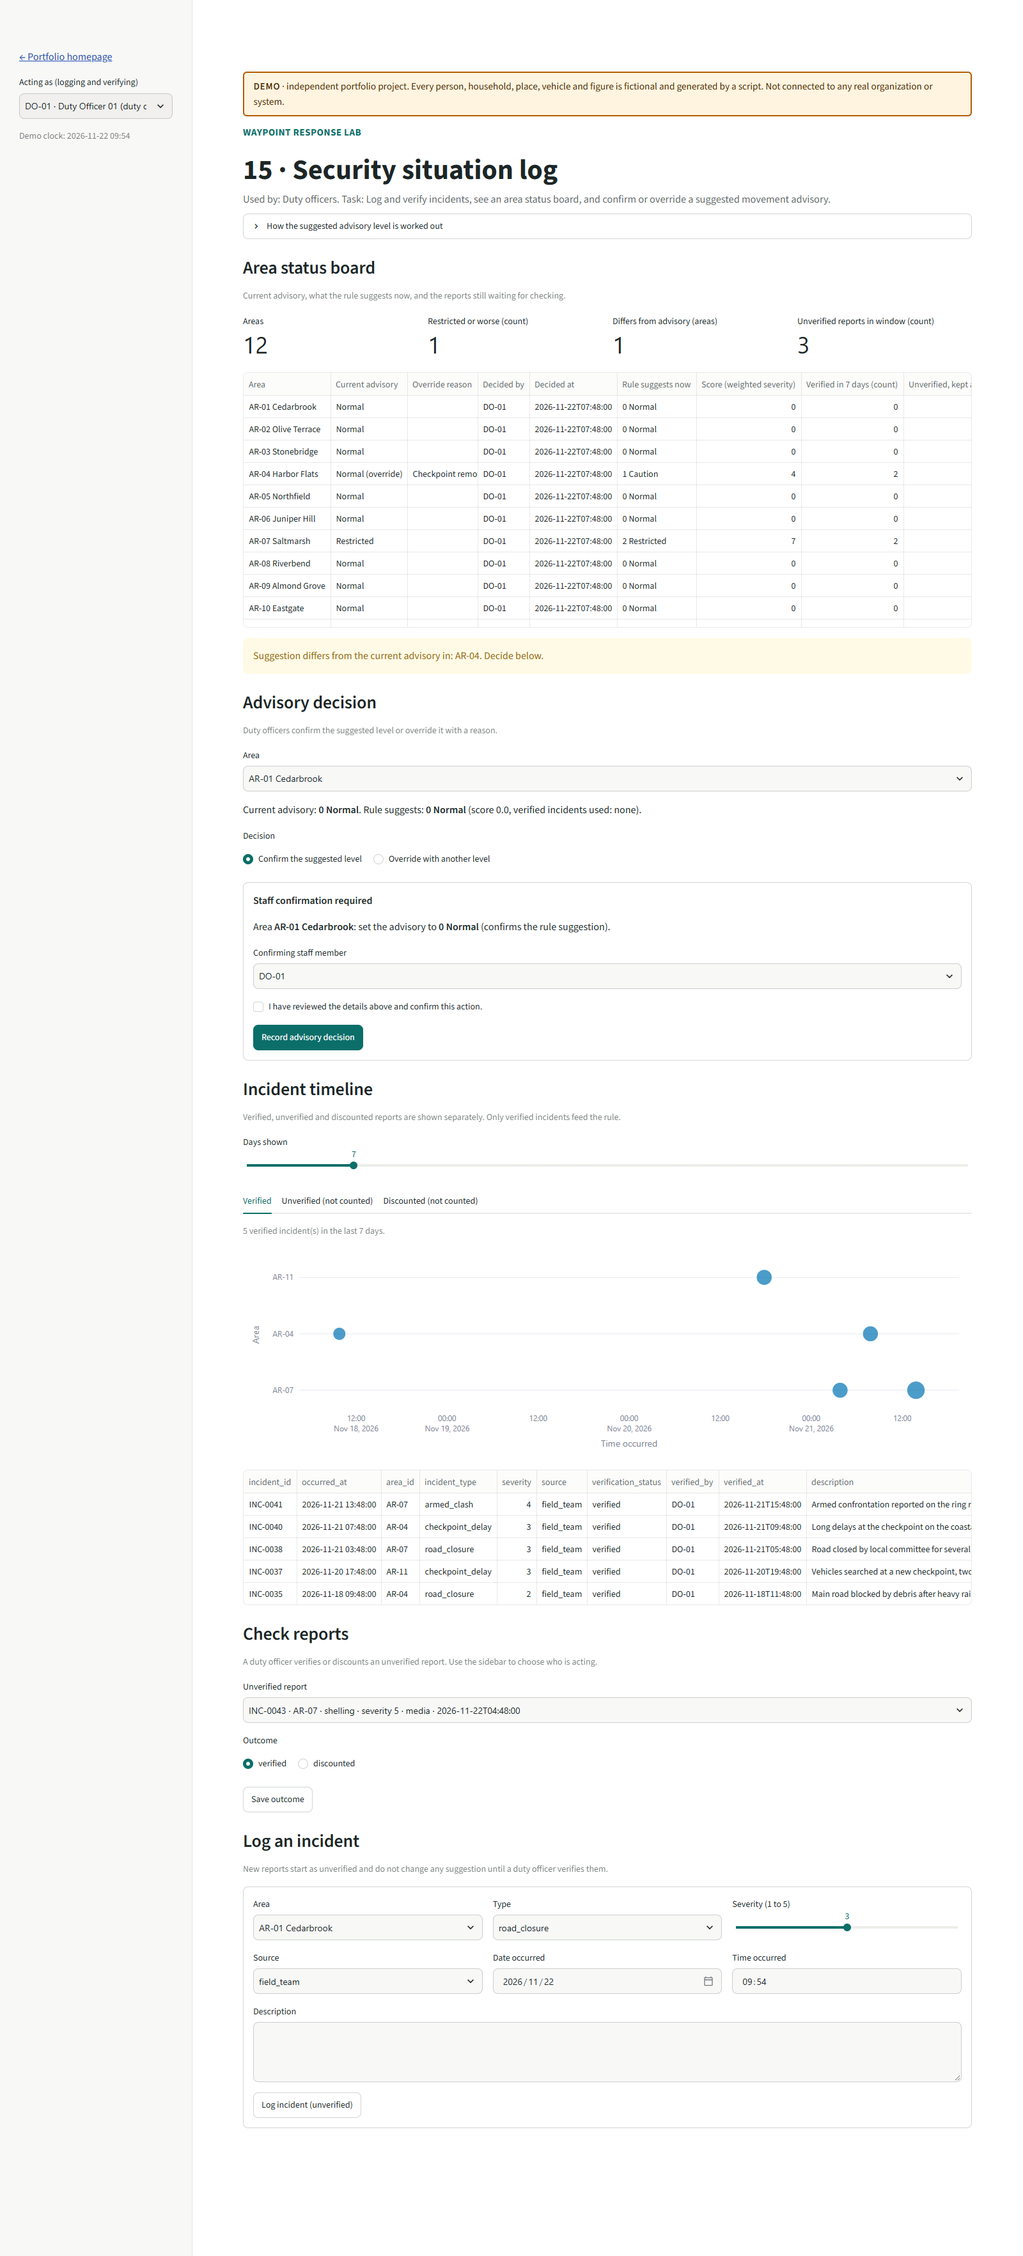
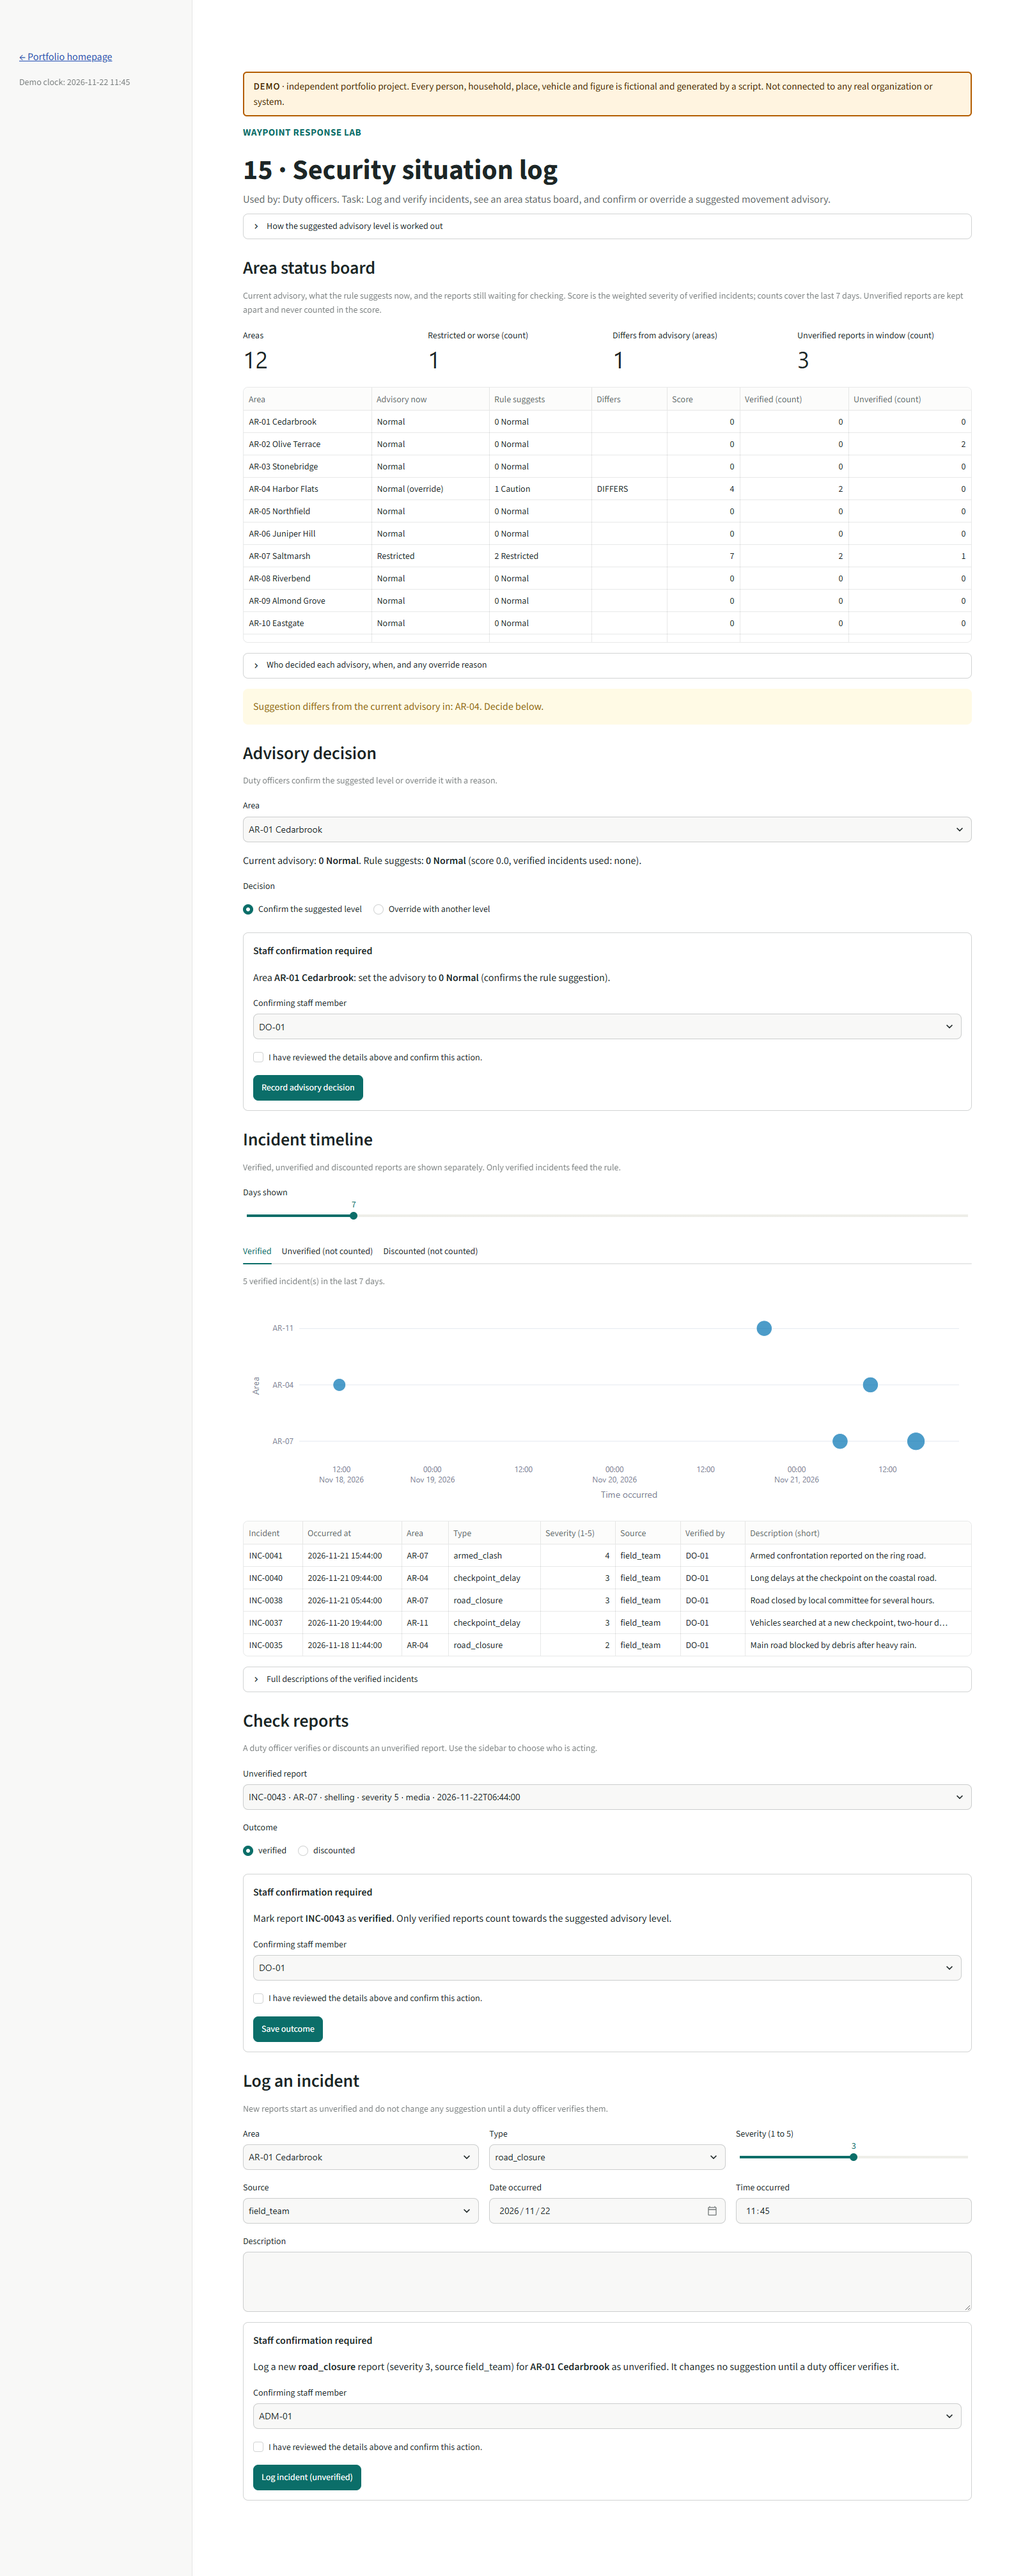
Project 15: narrower tables, confirmations, fresh screenshot

diff --git a/projects/15-security-situation-log/app.py b/projects/15-security-situation-log/app.py
@@ -25,7 +25,6 @@ def level_label(level: int | None) -> str:
     return "No decision" if level is None else f"{level} {security.LEVEL_NAMES[level]}"
 
 
-acting = ui.staff_selector(("duty_officer", "field_worker"), key="p15_staff", label="Acting as (logging and verifying)")
 st.sidebar.caption(f"Demo clock: {NOW:%Y-%m-%d %H:%M}")
 
 with st.expander("How the suggested advisory level is worked out", expanded=False):
@@ -49,7 +48,11 @@ with db.transaction() as _conn:
     board = p15.status_board(_conn, NOW)
 
 # -- status board ---------------------------------------------------------
-ui.section("Area status board", "Current advisory, what the rule suggests now, and the reports still waiting for checking.")
+ui.section(
+    "Area status board",
+    "Current advisory, what the rule suggests now, and the reports still waiting for checking. Score is the weighted severity "
+    "of verified incidents; counts cover the last 7 days. Unverified reports are kept apart and never counted in the score.",
+)
 differing = [r["area_id"] for r in board if r["differs"]]
 ui.metric_row(
     [
@@ -63,20 +66,31 @@ board_df = pd.DataFrame(
     [
         {
             "Area": f"{r['area_id']} {r['area']}",
-            "Current advisory": r["current_name"] + (" (override)" if r["is_override"] else ""),
-            "Override reason": r["override_reason"] or "",
-            "Decided by": r["decided_by"] or "",
-            "Decided at": r["decided_at"] or "",
-            "Rule suggests now": f"{r['suggested_level']} {r['suggested_name']}",
-            "Score (weighted severity)": r["score"],
-            "Verified in 7 days (count)": r["verified_in_window"],
-            "Unverified, kept apart (count)": r["unverified_in_window"],
+            "Advisory now": r["current_name"] + (" (override)" if r["is_override"] else ""),
+            "Rule suggests": f"{r['suggested_level']} {r['suggested_name']}",
             "Differs": "DIFFERS" if r["differs"] else "",
+            "Score": r["score"],
+            "Verified (count)": r["verified_in_window"],
+            "Unverified (count)": r["unverified_in_window"],
         }
         for r in board
     ]
 )
 ui.table(board_df)
+with st.expander("Who decided each advisory, when, and any override reason"):
+    ui.table(
+        pd.DataFrame(
+            [
+                {
+                    "Area": f"{r['area_id']} {r['area']}",
+                    "Decided by": r["decided_by"] or "",
+                    "Decided at": r["decided_at"] or "",
+                    "Override reason": r["override_reason"] or "",
+                }
+                for r in board
+            ]
+        )
+    )
 if differing:
     st.warning("Suggestion differs from the current advisory in: " + ", ".join(differing) + ". Decide below.")
 
@@ -142,7 +156,27 @@ for tab, status in zip(tabs, ("verified", "unverified", "discounted"), strict=Tr
         )
         charts.apply_defaults(fig, "Time occurred", "Area", height=330)
         st.plotly_chart(fig, width="stretch", key=f"p15_chart_{status}")
-        ui.table(part.drop(columns=[] if status != "unverified" else ["verified_by", "verified_at"]))
+        cols = ["incident_id", "occurred_at", "area_id", "incident_type", "severity", "source"]
+        if status != "unverified":
+            cols += ["verified_by"]
+        view = part[cols].assign(description=part["description"].map(lambda t: t if len(t) <= 50 else t[:49].rstrip() + "…"))
+        ui.table(
+            view.rename(
+                columns={
+                    "incident_id": "Incident",
+                    "occurred_at": "Occurred at",
+                    "area_id": "Area",
+                    "incident_type": "Type",
+                    "severity": "Severity (1-5)",
+                    "source": "Source",
+                    "verified_by": "Verified by",
+                    "description": "Description (short)",
+                }
+            )
+        )
+        with st.expander(f"Full descriptions of the {status} incidents"):
+            for r in part.itertuples():
+                st.markdown(f"**{r.incident_id}** ({r.area_id}, {r.incident_type}): {r.description}")
 
 # -- verify or discount ---------------------------------------------------
 ui.section("Check reports", "A duty officer verifies or discounts an unverified report. Use the sidebar to choose who is acting.")
@@ -180,18 +214,23 @@ else:
 
 # -- log a new incident ---------------------------------------------------
 ui.section("Log an incident", "New reports start as unverified and do not change any suggestion until a duty officer verifies them.")
-with st.form("p15_log_form", clear_on_submit=False):
-    c1, c2, c3 = st.columns(3)
-    f_area = c1.selectbox("Area", list(by_id), format_func=lambda a: f"{a} {by_id[a]['area']}", key="p15_f_area")
-    f_type = c2.selectbox("Type", p15.INCIDENT_TYPE_LIST, key="p15_f_type")
-    f_sev = c3.slider("Severity (1 to 5)", 1, 5, 3, key="p15_f_sev")
-    c4, c5, c6 = st.columns(3)
-    f_source = c4.selectbox("Source", p15.SOURCES, key="p15_f_source")
-    f_date = c5.date_input("Date occurred", value=NOW.date(), key="p15_f_date")
-    f_time = c6.time_input("Time occurred", value=time(NOW.hour, NOW.minute), key="p15_f_time")
-    f_desc = st.text_area("Description", key="p15_f_desc")
-    submitted = st.form_submit_button("Log incident (unverified)")
-if submitted:
+c1, c2, c3 = st.columns(3)
+f_area = c1.selectbox("Area", list(by_id), format_func=lambda a: f"{a} {by_id[a]['area']}", key="p15_f_area")
+f_type = c2.selectbox("Type", p15.INCIDENT_TYPE_LIST, key="p15_f_type")
+f_sev = c3.slider("Severity (1 to 5)", 1, 5, 3, key="p15_f_sev")
+c4, c5, c6 = st.columns(3)
+f_source = c4.selectbox("Source", p15.SOURCES, key="p15_f_source")
+f_date = c5.date_input("Date occurred", value=NOW.date(), key="p15_f_date")
+f_time = c6.time_input("Time occurred", value=time(NOW.hour, NOW.minute), key="p15_f_time")
+f_desc = st.text_area("Description", key="p15_f_desc")
+reporter = ui.confirm_action(
+    "p15_log",
+    f"Log a new **{f_type}** report (severity {f_sev}, source {f_source}) for **{f_area} {by_id[f_area]['area']}** as unverified. "
+    "It changes no suggestion until a duty officer verifies it.",
+    roles=None,
+    button_label="Log incident (unverified)",
+)
+if reporter:
     try:
         with db.transaction() as conn:
             new_id = p15.log_incident(
@@ -202,8 +241,9 @@ if submitted:
                 source=f_source,
                 occurred_at=datetime.combine(f_date, f_time),
                 description=f_desc,
-                reported_by=acting or "",
+                reported_by=reporter,
             )
-        st.success(f"Logged {new_id} as unverified.")
+        st.session_state["p15_flash"] = f"Logged {new_id} as unverified, confirmed by {reporter}."
+        st.rerun()
     except Exception as exc:
-        st.error(str(exc))
+        st.error(f"Nothing was logged. {exc}")

diff --git a/tests/test_p15_security.py b/tests/test_p15_security.py
@@ -130,6 +130,23 @@ def test_log_incident_unverified_and_audited(conn: sqlite3.Connection) -> None:
     assert p15.suggestion_for_area(conn, "AR-05")["score"] == 0
 
 
+@pytest.mark.parametrize("nobody", [None, "", "  ", "NOPE-99"])
+def test_log_incident_refused_without_a_staff_confirmation(conn: sqlite3.Connection, nobody: str | None) -> None:
+    before = conn.execute("SELECT COUNT(*) FROM incidents").fetchone()[0]
+    with pytest.raises(confirm.ConfirmationRequired):
+        p15.log_incident(
+            conn,
+            area_id="AR-05",
+            incident_type="crime",
+            severity=3,
+            source="hotline",
+            occurred_at=NOW - timedelta(hours=1),
+            description="x",
+            reported_by=nobody,  # type: ignore[arg-type]
+        )
+    assert conn.execute("SELECT COUNT(*) FROM incidents").fetchone()[0] == before
+
+
 @pytest.mark.parametrize(
     "bad",
     [{"severity": 0}, {"severity": 6}, {"incident_type": "meteor"}, {"source": "rumour"}, {"description": "  "}, {"area_id": "AR-99"}],
@@ -228,3 +245,22 @@ def test_app_walkthrough_verify_then_override(app_test, db_path) -> None:  # noq
         assert tuple(row) == (2, 1, 1)
     finally:
         c.close()
+
+
+def test_app_log_incident_needs_the_tick_box(app_test, db_path) -> None:  # noqa: ANN001
+    def count() -> int:
+        c = db.connect(db_path)
+        try:
+            return c.execute("SELECT COUNT(*) FROM incidents").fetchone()[0]
+        finally:
+            c.close()
+
+    at = app_test(15).run()
+    assert not at.exception
+    before = count()
+    at.text_area(key="p15_f_desc").set_value("Checkpoint closed without notice.").run()
+    next(b for b in at.button if b.label == "Log incident (unverified)").click().run()
+    assert not at.exception and count() == before
+    at.checkbox(key="confirm_tick_p15_log").check()
+    next(b for b in at.button if b.label == "Log incident (unverified)").click().run()
+    assert not at.exception and count() == before + 1

diff --git a/projects/15-security-situation-log/p15_security.py b/projects/15-security-situation-log/p15_security.py
@@ -43,7 +43,8 @@ def log_incident(
     description: str,
     reported_by: str,
 ) -> str:
-    """Log a new incident as unverified. Returns the incident ID."""
+    """Log a new incident as unverified. Returns the incident ID. Any active staff member may log; the confirmation is recorded."""
+    confirm.require_confirmation(conn, reported_by)
     if incident_type not in INCIDENT_TYPE_LIST:
         raise IncidentError(f"Unknown incident type: {incident_type}")
     if source not in SOURCES:
@@ -54,8 +55,6 @@ def log_incident(
         raise IncidentError("A description is required.")
     if conn.execute("SELECT 1 FROM areas WHERE area_id = ?", (area_id,)).fetchone() is None:
         raise IncidentError(f"Unknown area: {area_id}")
-    if conn.execute("SELECT 1 FROM staff WHERE staff_id = ? AND active = 1", (reported_by,)).fetchone() is None:
-        raise IncidentError(f"Unknown or inactive staff ID: {reported_by}")
     occurred = _fmt(occurred_at)
     if clock.parse(occurred) > clock.now():
         raise IncidentError("The incident cannot have occurred in the future.")

diff --git a/projects/15-security-situation-log/README.md b/projects/15-security-situation-log/README.md
@@ -25,7 +25,7 @@ The shared SQLite database: `incidents`, `advisories` (view `v_current_advisory`
 - Level 0 to 3 as in the shared rule. Scores use the app clock (`shared.clock`).
 - A decision stores the suggestion computed at the moment of the decision, with the rule version, score and incident IDs used. The previous active decision for the area is made inactive in the same transaction.
 - A decision equal to the suggestion is a confirmation (override flag 0); any other level is an override and needs a reason.
-- Only the `duty_officer` role (and admin) can verify, discount or decide. Anyone active can log a report.
+- Only the `duty_officer` role (and admin) can verify, discount or decide. Anyone active can log a report, through the same confirmation form (the confirming staff member is recorded as the reporter).
 
 ## Limitations
 - Local demo mode: a sidebar selector picks the acting staff member; there are no accounts.
